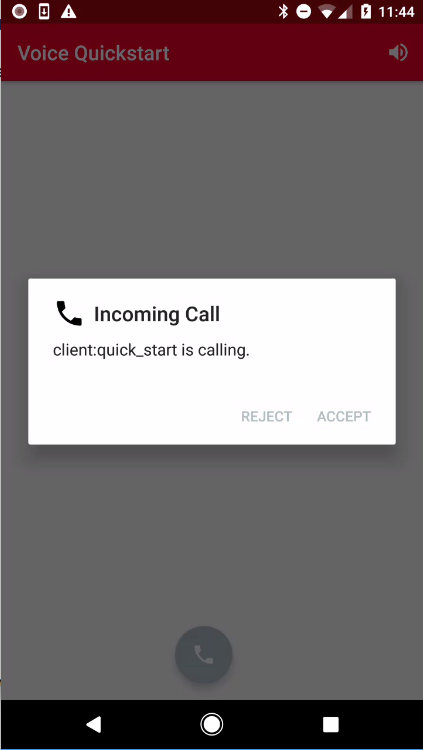
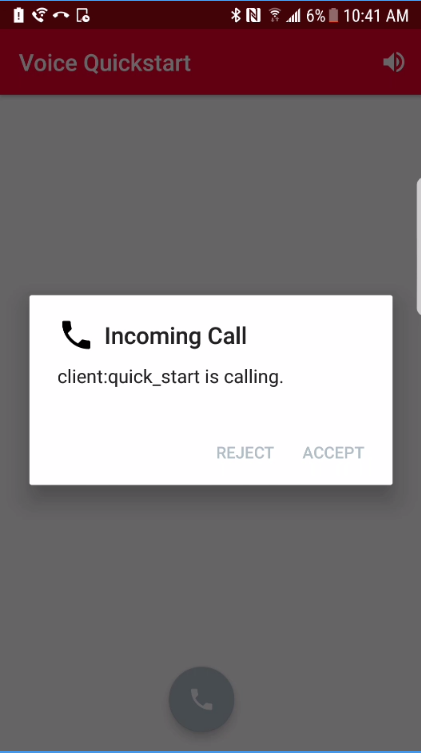
Wakeup lockscreen is functional.
Updated README

updated google json file.

Cleanedup manifest.

Cleanedup manifest.

Cleanedup manifest.

diff --git a/app/src/main/java/com/twilio/voice/quickstart/VoiceActivity.java b/app/src/main/java/com/twilio/voice/quickstart/VoiceActivity.java
@@ -29,6 +29,8 @@ import android.view.Menu;
 import android.view.MenuInflater;
 import android.view.MenuItem;
 import android.view.View;
+import android.view.Window;
+import android.view.WindowManager;
 import android.widget.Chronometer;
 import android.widget.EditText;
 
@@ -92,6 +94,13 @@ public class VoiceActivity extends AppCompatActivity {
     protected void onCreate(Bundle savedInstanceState) {
         super.onCreate(savedInstanceState);
         setContentView(R.layout.activity_voice);
+
+        Window window = getWindow();
+        window.addFlags(WindowManager.LayoutParams.FLAG_SHOW_WHEN_LOCKED
+                | WindowManager.LayoutParams.FLAG_TURN_SCREEN_ON
+                | WindowManager.LayoutParams.FLAG_KEEP_SCREEN_ON);
+
+
         coordinatorLayout = findViewById(R.id.coordinator_layout);
         callActionFab = findViewById(R.id.call_action_fab);
         hangupActionFab = findViewById(R.id.hangup_action_fab);
@@ -252,7 +261,6 @@ public class VoiceActivity extends AppCompatActivity {
                             answerCallClickListener(),
                             cancelCallClickListener());
                     alertDialog.show();
-                    notificationManager.cancel(intent.getIntExtra(INCOMING_CALL_NOTIFICATION_ID, 0));
                 } else {
                     if (alertDialog != null && alertDialog.isShowing()) {
                         soundPoolManager.stopRinging();

diff --git a/app/src/main/java/com/twilio/voice/quickstart/fcm/VoiceFirebaseMessagingService.java b/app/src/main/java/com/twilio/voice/quickstart/fcm/VoiceFirebaseMessagingService.java
@@ -12,7 +12,6 @@ import android.os.Build;
 import android.os.Bundle;
 import android.service.notification.StatusBarNotification;
 import android.support.v4.app.NotificationCompat;
-import android.support.v4.content.LocalBroadcastManager;
 import android.util.Log;
 
 import com.google.firebase.messaging.FirebaseMessagingService;
@@ -151,13 +150,15 @@ public class VoiceFirebaseMessagingService extends FirebaseMessagingService {
     }
 
     /*
-     * Send the CallInvite to the VoiceActivity
+     * Send the CallInvite to the VoiceActivity. Start the activity if it is not running already.
      */
     private void sendCallInviteToActivity(CallInvite callInvite, int notificationId) {
-        Intent intent = new Intent(VoiceActivity.ACTION_INCOMING_CALL);
+        Intent intent = new Intent(this, VoiceActivity.class);
+        intent.setAction(VoiceActivity.ACTION_INCOMING_CALL);
         intent.putExtra(VoiceActivity.INCOMING_CALL_NOTIFICATION_ID, notificationId);
         intent.putExtra(VoiceActivity.INCOMING_CALL_INVITE, callInvite);
-        LocalBroadcastManager.getInstance(this).sendBroadcast(intent);
+        intent.addFlags(Intent.FLAG_ACTIVITY_SINGLE_TOP);
+        this.startActivity(intent);
     }
 
     /**

diff --git a/README.md b/README.md
@@ -131,13 +131,14 @@ Put the `PUSH_CREDENTIAL_SID` configuration info into your application server by
     PUSH_CREDENTIAL_SID = 'CR***'
     APP_SID = 'AP***'
 
-Once you’ve done that, restart the server so it uses the new configuration info. Now it's time to test. Use your browser to initiate an incoming call by navigating to the public URL of your application server’s `https://{YOUR_SERVER_URL}/placeCall` endpoint. This will trigger a Twilio REST API request that will make an inbound call to your mobile app. You will receive an incoming call notification.
-
-<img height="500px" src="images/quickstart/incoming_notification.png">"
-
-If your applicaion is in the foreground, you will see an alert dialog.
+Once you’ve done that, restart the server so it uses the new configuration info. Now it's time to test. Use your browser to initiate an incoming call by navigating to the public URL of your application server’s `https://{YOUR_SERVER_URL}/placeCall` endpoint. This will trigger a Twilio REST API request that will make an inbound call to your mobile app. 
+Your application will be brought to the foreground and you will see an alert dialog. The app will be brought to foreground even when your screen is locked.
 
 <img height="500px" src="images/quickstart/incoming_call.png">"
+
+You will receive an incoming call notification as well. If you pull down the notification drawer, you will be able to view the notification.
+
+<img height="500px" src="images/quickstart/incoming_notification.png">"
 
 Once your app accepts the call, you should hear a congratulatory message.
 
